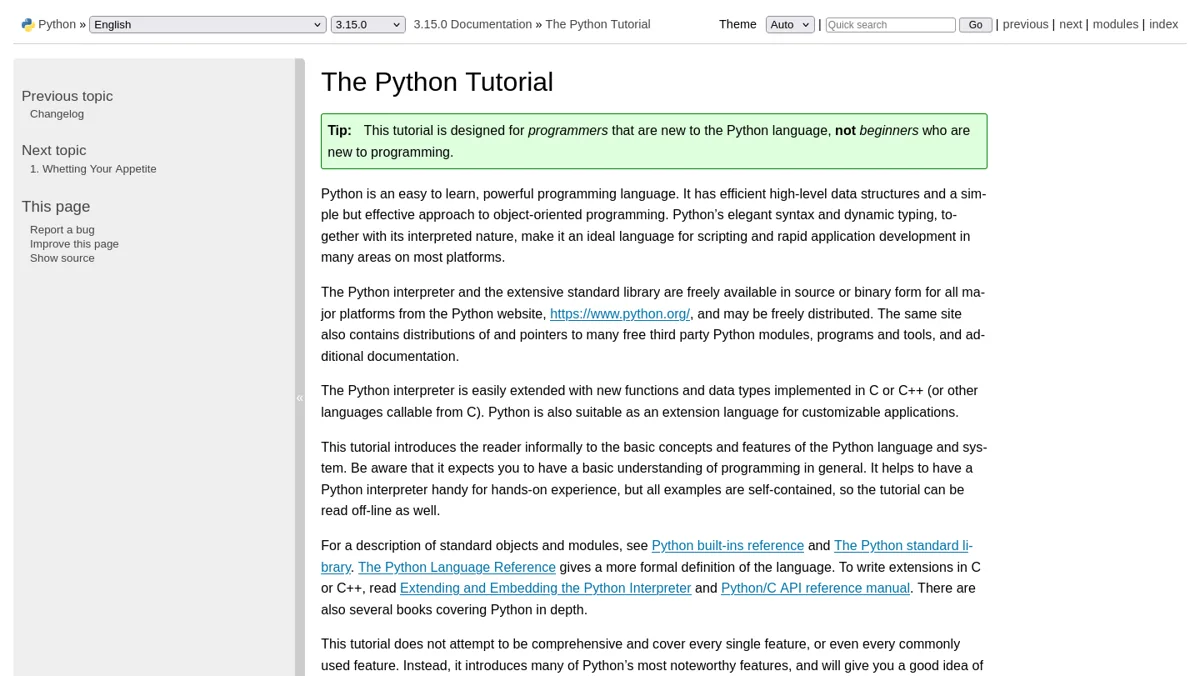
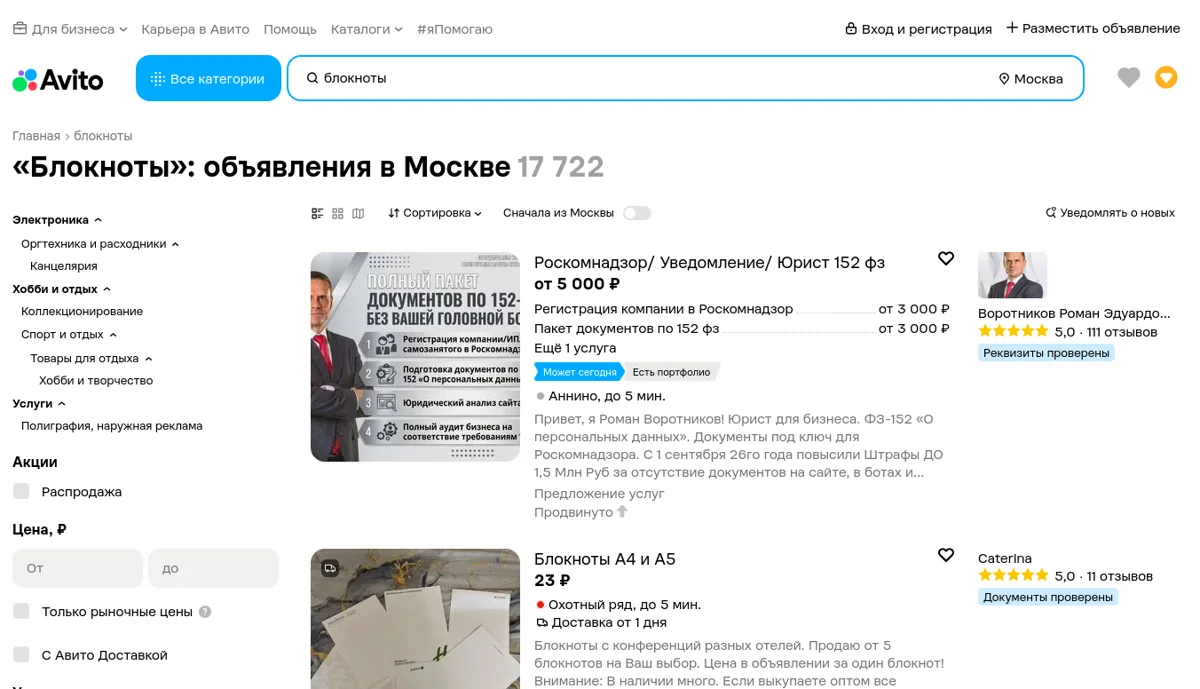
fix(updates): увеличивать снимки и показывать настоящие файлы и Авито (K21-357)

diff --git a/web/src/pages/updates.css b/web/src/pages/updates.css
@@ -44,7 +44,7 @@
 .upd-notes-group > p { font-size: 0.8125rem; color: var(--neo-text-secondary); margin-bottom: 0.75rem; }
 .upd-notes ul { list-style: none; padding: 0; margin: 0; display: grid; gap: 0.9rem; }
 .upd-notes li { display: grid; grid-template-columns: 22px minmax(0, 1fr); gap: 0.85rem; align-items: start; }
-.upd-notes li > svg { margin-top: 0.25rem; color: var(--neo-text-secondary); }
+.upd-list-mark { width: 6px; height: 6px; margin: 0.65rem 0 0 0.5rem; border-radius: 50%; background: var(--neo-text-secondary); }
 .upd-notes li p { margin-top: 0.25rem; font-size: 0.875rem; color: var(--neo-text-secondary); }
 .upd-more { display: inline-flex; align-items: center; gap: 0.5rem; min-height: 44px; margin-top: 1rem; padding: 0.5rem 0.9rem; border-radius: var(--neo-radius-control); background: transparent; font-size: 0.8125rem; color: var(--neo-text-secondary); }
 .upd-more:hover { background: var(--neo-surface); box-shadow: var(--neo-inset-compact); }
@@ -88,14 +88,23 @@
 .upd-picture figcaption { margin-top: 0.5rem; color: var(--neo-text-secondary); font-size: 0.75rem; line-height: 1.5; }
 .upd-notes li.upd-feature { grid-template-columns: minmax(0, 1.15fr) minmax(0, 1fr); gap: 1.5rem; align-items: center; margin: 0.75rem 0; }
 .upd-feature .upd-picture { margin: 0; }
-.upd-card > .upd-picture img { max-height: 420px; object-fit: contain; }
+.upd-card > .upd-picture > button img { max-height: 420px; object-fit: contain; }
 .upd-history details { margin-top: 1rem; }
 .upd-history summary { cursor: pointer; min-height: 44px; padding: 0.75rem 1rem; border-radius: var(--neo-radius-control); background: var(--neo-surface); box-shadow: var(--neo-depth-1); font-weight: 600; }
 .upd-history summary span { display: block; color: var(--neo-text-secondary); font-size: 0.8125rem; font-weight: 400; }
 .upd-history .upd-card { margin-top: 1rem; }
-.korra-updates :is(button, summary):focus-visible { outline: 2px solid var(--neo-text-primary); outline-offset: 3px; }
+.korra-updates :is(button, summary, .upd-picture-scroll):focus-visible { outline: 2px solid var(--neo-text-primary); outline-offset: 3px; }
 @media (max-width: 720px) {
   .upd-notes li.upd-feature { grid-template-columns: minmax(0, 1fr); gap: 1rem; }
   .upd-actions > p { min-width: 0; }
   .upd-card-head > div:first-child { flex-basis: 100%; }
 }
+
+.upd-picture-open { position: relative; display: block; width: 100%; padding: 0; border-radius: var(--neo-radius-control); background: var(--neo-surface); cursor: zoom-in; }
+.upd-picture-hint { position: absolute; right: 0.5rem; bottom: 0.5rem; padding: 0.2rem 0.6rem; border-radius: var(--neo-radius-control); background: var(--neo-surface); color: var(--neo-text-primary); box-shadow: var(--neo-depth-1); font-size: 0.75rem; }
+.upd-picture-dialog { width: min(1200px, calc(100% - 2rem)); max-width: none; max-height: calc(100dvh - 2rem); margin: auto; padding: 1rem; border: 0; border-radius: var(--neo-radius-card); background: var(--neo-surface); color: var(--neo-text-primary); box-shadow: var(--neo-depth-3); }
+.upd-picture-dialog::backdrop { background: rgb(0 0 0 / 65%); }
+.upd-picture-header { display: flex; align-items: center; justify-content: space-between; gap: 1rem; margin-bottom: 0.5rem; }
+.upd-picture-header .upd-button { flex-shrink: 0; min-height: 44px; padding: 0.5rem 1rem; }
+.upd-picture-scroll { overflow: auto; max-height: 70dvh; margin-top: 0.75rem; overscroll-behavior: contain; }
+.upd-picture-scroll img { width: auto; max-width: none; min-width: 100%; }

diff --git a/web/src/pages/UpdatesPage.tsx b/web/src/pages/UpdatesPage.tsx
@@ -13,7 +13,7 @@
  * состояния не проходит. Пока идёт известное нам обновление, обрыв связи здесь
  * не ошибка, а ожидаемый шаг, и написан он именно так.
  */
-import { useCallback, useEffect, useLayoutEffect, useRef, useState } from "react";
+import { useCallback, useEffect, useId, useLayoutEffect, useRef, useState } from "react";
 import {
   AlertTriangle,
   ArrowRight,
@@ -23,7 +23,6 @@ import {
   Download,
   Info,
   RotateCcw,
-  Sparkles,
 } from "lucide-react";
 import { usePageHeader } from "@/contexts/usePageHeader";
 import { api, withBasePath } from "@/lib/api";
@@ -88,7 +87,7 @@ function ReleaseSections({ sections, expanded }: { sections: ReleaseNoteSection[
             <ul>
               {items.map((item) => (
                 <li key={item.title} className={item.screenshot ? "upd-feature" : undefined}>
-                  {item.screenshot ? <Screenshot picture={item.screenshot} /> : <Sparkles size={16} aria-hidden />}
+                  {item.screenshot ? <Screenshot picture={item.screenshot} /> : <span className="upd-list-mark" aria-hidden />}
                   <div>
                     <h4>{item.title}</h4>
                     {item.detail && <p>{item.detail}</p>}
@@ -104,10 +103,41 @@ function ReleaseSections({ sections, expanded }: { sections: ReleaseNoteSection[
 }
 
 function Screenshot({ picture }: { picture: ReleaseScreenshot }) {
+  const dialog = useRef<HTMLDialogElement>(null);
+  const captionId = useId();
+  const [open, setOpen] = useState(false);
+  const src = withBasePath(picture.src);
   return (
     <figure className="upd-picture">
-      <img src={withBasePath(picture.src)} alt={picture.alt} loading="lazy" decoding="async" />
+      <button
+        type="button"
+        className="upd-picture-open"
+        aria-label={`Увеличить снимок: ${picture.alt}`}
+        aria-haspopup="dialog"
+        onClick={() => { setOpen(true); dialog.current?.showModal(); }}
+      >
+        <img src={src} alt={picture.alt} loading="lazy" decoding="async" />
+        <span className="upd-picture-hint">Увеличить</span>
+      </button>
       <figcaption>{picture.alt}</figcaption>
+      <dialog
+        ref={dialog}
+        className="upd-picture-dialog"
+        aria-labelledby={captionId}
+        onClose={() => setOpen(false)}
+        onClick={event => { if (event.target === event.currentTarget) dialog.current?.close(); }}
+      >
+        <div className="upd-picture-header">
+          <p id={captionId}>{picture.alt}</p>
+          <button type="button" className="upd-button" aria-label="Закрыть снимок" onClick={() => dialog.current?.close()}>
+            Закрыть
+          </button>
+        </div>
+        <p className="upd-small upd-muted">Снимок можно прокручивать. Esc — закрыть.</p>
+        <div className="upd-picture-scroll" tabIndex={0} role="region" aria-label="Увеличенный снимок">
+          {open && <img src={src} alt={picture.alt} decoding="async" />}
+        </div>
+      </dialog>
     </figure>
   );
 }

diff --git a/web/src/pages/UpdatesPage.test.tsx b/web/src/pages/UpdatesPage.test.tsx
@@ -345,3 +345,39 @@ describe('снимки и прошлые выпуски', () => {
     expect(container.querySelector('img')).toBeNull();
   });
 });
+
+it('снимок открывается кнопкой, сохраняет адрес и подпись и закрывается', async () => {
+  const picture = { src: '/releases/current/browser.webp', alt: 'Поиск товаров в браузере агента' };
+  calls.getUpdatesState.mockResolvedValue(state({ installed: { ...INSTALLED, screenshot: picture } }));
+  // jsdom не реализует нативный модальный диалог; реальные клавиши и фокус
+  // дополнительно проверяются в собранной панели Chromium и WebKit.
+  const show = vi.fn(function (this: HTMLDialogElement) {
+    this.open = true;
+  });
+  const close = vi.fn(function (this: HTMLDialogElement) {
+    this.open = false;
+    this.dispatchEvent(new Event('close'));
+  });
+  Object.defineProperties(HTMLDialogElement.prototype, {
+    showModal: { value: show, configurable: true },
+    close: { value: close, configurable: true },
+  });
+  await render();
+  const trigger = container.querySelector('button[aria-haspopup="dialog"]');
+  expect(trigger).not.toBeNull();
+  expect(trigger?.getAttribute('aria-label')).toContain(picture.alt);
+  await click(trigger);
+  const dialog = container.querySelector('dialog');
+  expect(show).toHaveBeenCalledOnce();
+  expect(dialog?.open).toBe(true);
+  expect(dialog?.querySelector('img')?.src).toContain('/c/demo' + picture.src);
+  expect(dialog?.textContent).toContain(picture.alt);
+  await click(dialog?.querySelector('button') ?? null);
+  expect(close).toHaveBeenCalledOnce();
+  expect(dialog?.open).toBe(false);
+  await click(trigger);
+  await click(dialog);
+  expect(dialog?.open).toBe(false);
+  Reflect.deleteProperty(HTMLDialogElement.prototype, 'showModal');
+  Reflect.deleteProperty(HTMLDialogElement.prototype, 'close');
+});
